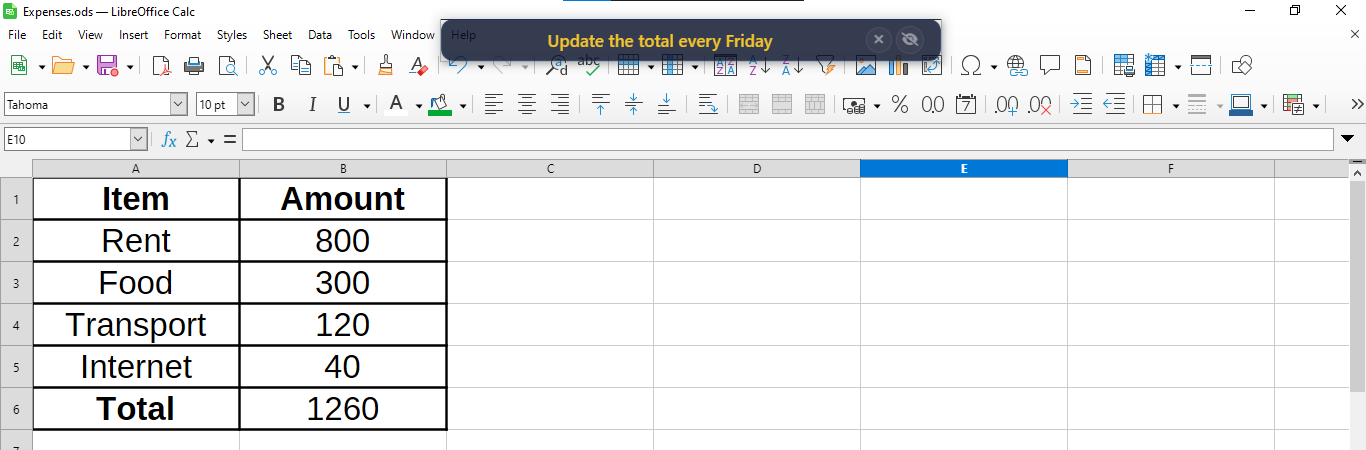
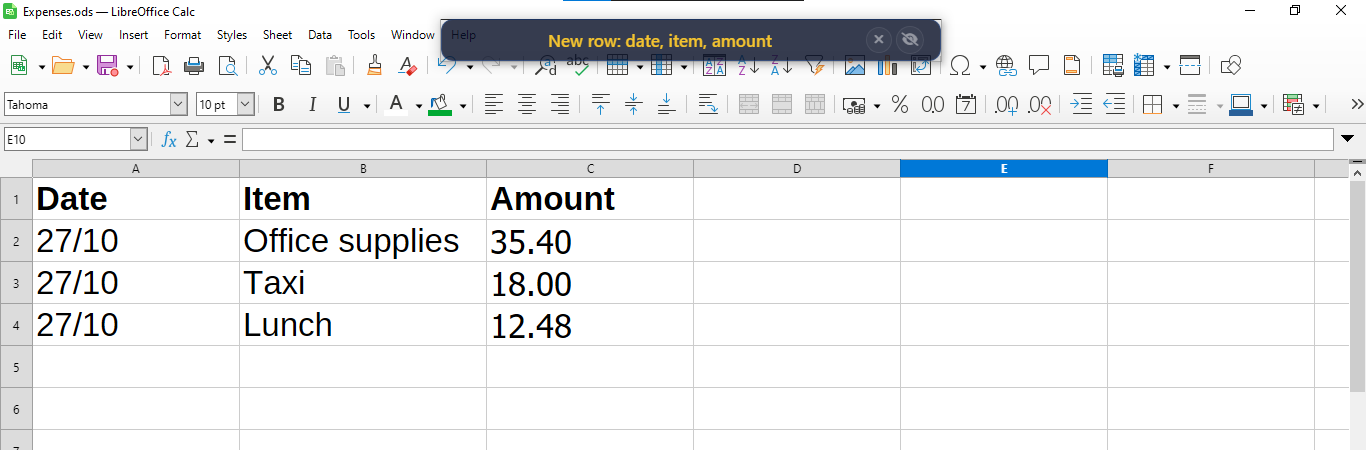
Homepage: new demo screenshots (receipts workflow)
- Hero shows only the workflow panel (keys R, E, C, B), readable at hero size
- New 'Every open window, ready to arrange' section with the full window
- The idea section shows the problem: four spreadsheets behind one taskbar button
- Note and saved-history images from the new workflow
- Floating keycap moved so it no longer covers the step keys

Claude-Session: https://claude.ai/code/session_01Qn7NYGUnyZAycQnesv1TcC

diff --git a/index.html b/index.html
@@ -138,7 +138,7 @@
     background:rgba(10,20,36,.82);backdrop-filter:blur(6px);border:1px solid var(--line-2);
     border-radius:12px;padding:9px 12px;box-shadow:0 12px 30px -10px rgba(0,0,0,.7)}
   .float-kc .lbl{font-family:var(--mono);font-size:11.5px;color:var(--muted)}
-  .fk-left{left:-26px;top:34%}
+  .fk-left{right:18px;top:8px}  /* في الفراغ بجانب عنوان Current Workflow — لا يغطّي حروف الخطوات */
   .fk-right{right:-26px;bottom:20%}
 
   /* generic section */
@@ -152,6 +152,9 @@
   .idea .lead em{font-style:normal;color:var(--brand)}
   .idea .wrap.sec-head{max-width:var(--maxw)}
   .idea .body{color:var(--muted);max-width:760px;margin-top:26px;font-size:18px}
+  .taskbar-shot{margin:34px 0 0;max-width:var(--maxw)}
+  .taskbar-shot img{display:block;width:100%;height:auto;border-radius:12px;border:1px solid var(--line-2)}
+  .taskbar-shot figcaption{margin-top:10px;font-size:14px;color:var(--muted)}
   .video-frame{margin-top:38px;max-width:820px;border-radius:16px;overflow:hidden;
     border:1px solid var(--line-2);box-shadow:0 30px 60px -28px rgba(0,0,0,.7);
     aspect-ratio:16/9;background:#0b1830}
@@ -321,7 +324,7 @@
       </div>
       <div class="hero-vis rv">
         <div class="window">
-          <img src="/workflow.png" alt="Orvesca main window: four windows in the workflow with jump keys B, E, C and P" />
+          <img src="/workflow.png" alt="Orvesca workflow: Receipts, Expenses, Calculator and Budget with jump keys R, E, C and B" />
           <div class="float-kc fk-left"><span class="kc sm accent">E</span><span class="lbl">jump to Expenses</span></div>
           <div class="float-kc fk-right"><span class="lbl">next ▶</span><span class="kc sm">F9</span></div>
         </div>
@@ -335,6 +338,10 @@
       <span class="eyebrow">The idea</span>
       <p class="lead">Stop <em>hunting through the taskbar.</em></p>
       <p class="body">The cost of working across many windows isn't the work — it's finding the right window, again and again. Orvesca removes that. Give each window its own key — choose its first letter and there's nothing to memorize — then press F10 to turn jumping on, and land on any window instantly. Unlike Windows' own Win+number shortcuts, a key belongs to one specific window, so two Excel workbooks or two browser windows — each open in its own window — get separate keys. And if you pass through the same windows in the same order all day — entering data, comparing records, copying between apps — line them up once and walk the whole route with a single key.</p>
+      <figure class="taskbar-shot rv">
+        <img src="/taskbar.png" alt="Four LibreOffice Calc files stacked behind a single Windows taskbar button" loading="lazy" />
+        <figcaption>Four spreadsheets, one taskbar button. Orvesca gives each one its own key.</figcaption>
+      </figure>
       <div class="video-frame rv">
         <iframe src="https://www.youtube-nocookie.com/embed/R0xQI51JWrA" title="Orvesca demo" allow="accelerometer; clipboard-write; encrypted-media; gyroscope; picture-in-picture" allowfullscreen loading="lazy"></iframe>
       </div>
@@ -419,6 +426,14 @@
     <div class="wrap">
       <div class="shot wide rv">
         <div class="shot-txt">
+          <span class="eyebrow">Your open windows</span>
+          <h3>Every open window, ready to arrange.</h3>
+          <p>Orvesca lists every window you have open — even the spreadsheets Windows stacks behind a single taskbar button. Add the ones you need to your path, give each its own key, and you're set.</p>
+        </div>
+        <div class="frame"><img src="/windows.png" alt="Orvesca listing all open windows on the left, with a four-step workflow and jump keys on the right" loading="lazy" /></div>
+      </div>
+      <div class="shot wide rv">
+        <div class="shot-txt">
           <span class="eyebrow">Save &amp; restore</span>
           <h3>Build the path once. Bring it back tomorrow.</h3>
           <p>Save an entire workflow to a slot and restore it with a single click — window order, custom jump keys, whether jump is on, your notes, and whether each note is showing. The free plan keeps one path; Pro keeps five.</p>
@@ -431,7 +446,7 @@
           <h3>A note that lives on the window it belongs to.</h3>
           <p>Attach a reminder to any window and it travels with it — visible when you want the nudge, hidden when you don't. Small thing, big relief on a long shift.</p>
         </div>
-        <div class="frame"><img src="/note.png" alt="A note pinned to the Expenses spreadsheet reading Update the total every Friday" /></div>
+        <div class="frame"><img src="/note.png" alt="A note pinned to the Expenses spreadsheet reading New row: date, item, amount" /></div>
       </div>
     </div>
   </section>
